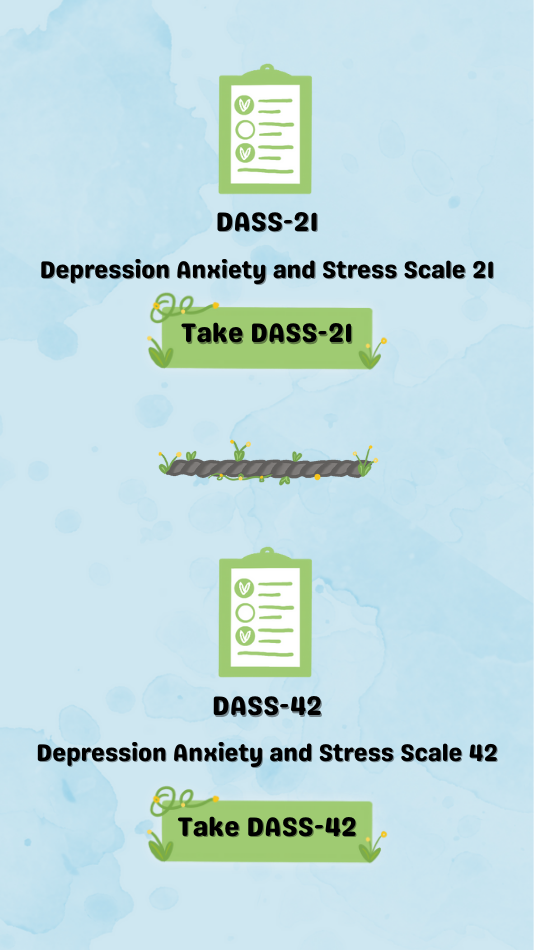
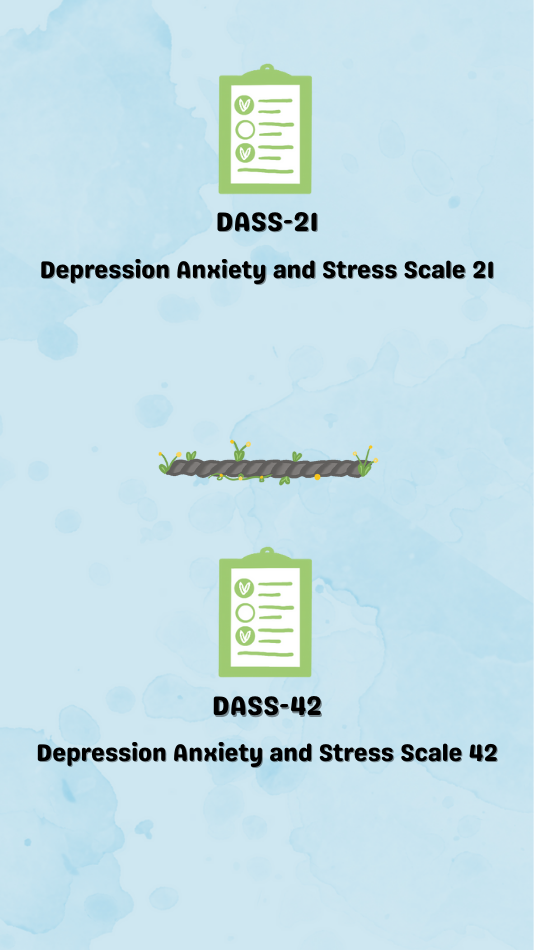
Add DassMenu page

Changed region(s): [[0.2697, 0.8242, 0.7191, 0.9158], [0.2697, 0.3053, 0.7191, 0.3968]]

diff --git a/pygame/InsightMind.py b/pygame/InsightMind.py
@@ -14,10 +14,18 @@ def main():
     # image1 = pygame.image.load("images/filename.png")
     main_menu = pygame.image.load("pygame/images/MainMenu.png")
     # second_page = pygame.image.load()
+    dass_menu = pygame.image.load("pygame/images/DassMenu.png")
 
+    # List of pages
+    pages = [main_menu, dass_menu]
+
+    # Button on MainMenu page
     start_img = pygame.image.load('pygame/images/MainButton.png').convert_alpha()
+    start_button = buttons.Button(65, 474.8, start_img, 1)
 
-    start_button = buttons.Button(35, 474.8, start_img, 1)
+    # Button on DassMenu page
+    dass21_img = pygame.image.load('pygame/images/dass21.png').convert_alpha()
+    dass21_button = buttons.Button(128.4, 283.6, dass21_img, 1)
 
     # slide_list = [main_menu, second_page]
     # questionair1 = [...]
@@ -29,15 +37,16 @@ def main():
     while running:
         screen.fill((0,0,0))
 
-        #ImAGE draw
-        # screen.blit(Image variable name, (x position, y position))
-        screen.blit(main_menu, (0,0))
+        # Draw the current page
+        screen.blit(pages[current_page], (0, 0))
 
-        if start_button.draw(screen):
-            print("click")
+        # Draw the start button on the main menu
+        if current_page == 0:
+            if start_button.draw(screen):
+                print("Button clicked")  # Debug print
+                current_page = 1  # Move to the second page
 
         for event in pygame.event.get():
-
             if event.type == pygame.QUIT:
                 running = False
 

diff --git a/pygame/buttons.py b/pygame/buttons.py
@@ -3,6 +3,7 @@ import pygame
 #button class
 class Button():
 	def __init__(self, x, y, image, scale):
+		
 		width = image.get_width()
 		height = image.get_height()
 		self.image = pygame.transform.scale(image, (int(width * scale), int(height * scale)))
@@ -11,7 +12,9 @@ class Button():
 		self.clicked = False
 
 	def draw(self, surface):
+		
 		action = False
+		
 		#get mouse position
 		pos = pygame.mouse.get_pos()
 
